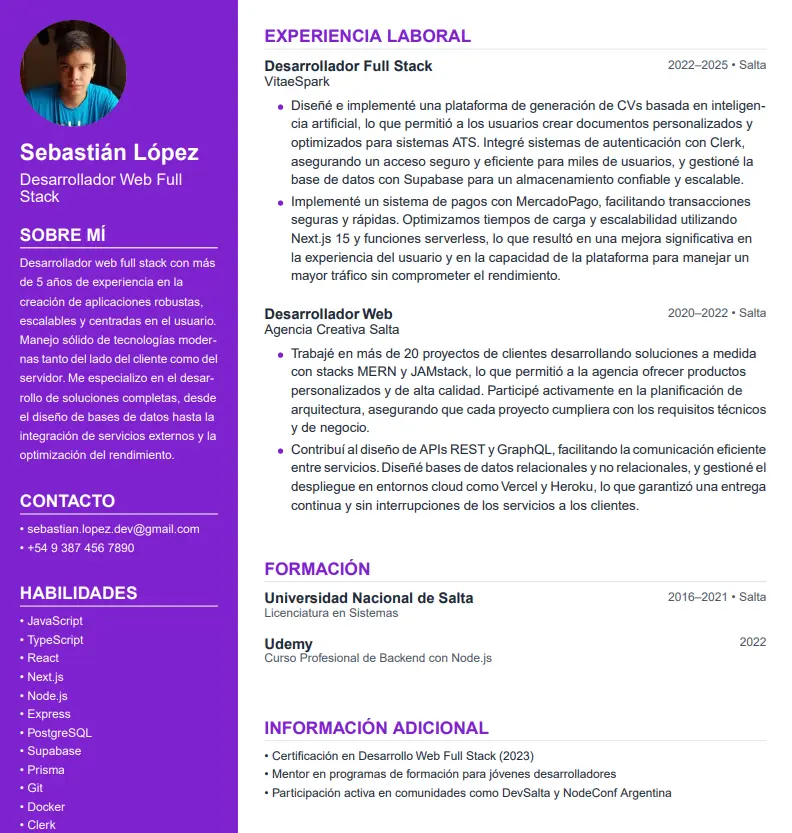
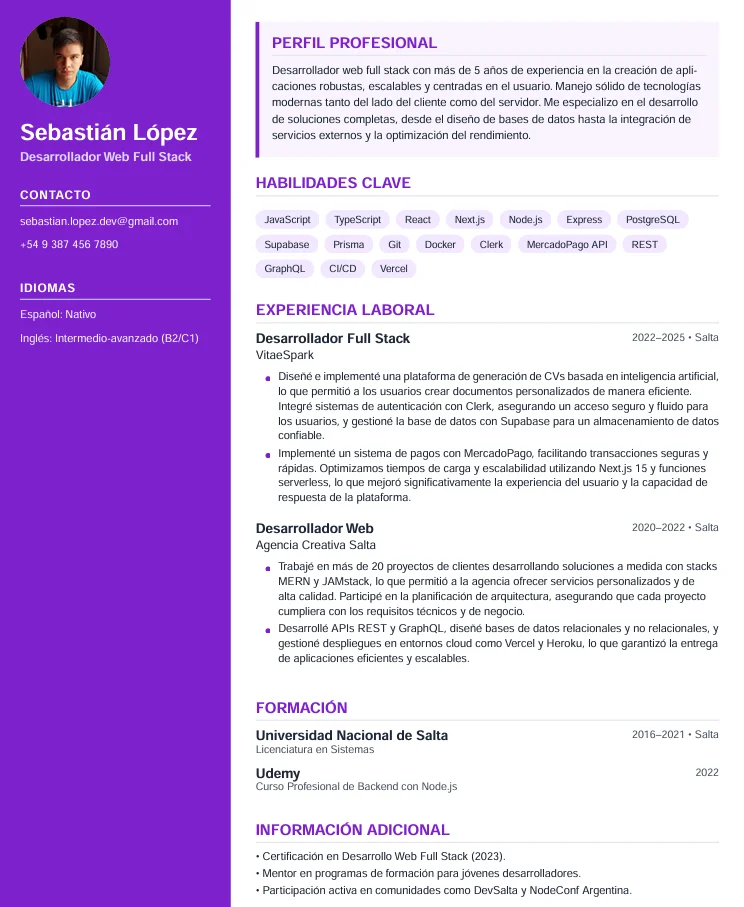
more images and images permance

diff --git a/components/TemplateSelector.tsx b/components/TemplateSelector.tsx
@@ -29,6 +29,7 @@ const templates = [
     id: "elegance",
     name: "Elegante",
     color: "#0A2C7C", // algo asi pero mas claro
+    image: "/elegance-good.webp",
     description: "Sofisticado y único",
     category: "Moderno",
     features: ["Diseño moderno", "Elegante", "Con Foto"],
@@ -39,6 +40,7 @@ const templates = [
     id: "purple",
     name: "Morado",
     color: "#8B5CF6",
+    image: "/purple-hero.webp",
     description: "Creativo y moderno",
     category: "Creativo",
     features: ["Diseño Moderno", "Colores Vibrantes", "Con Foto"],
@@ -48,6 +50,7 @@ const templates = [
     id: "blue",
     name: "Azul",
     color: "#1E40AF",
+    image: "/blue.webp",
     description: "Corporativo y confiable",
     category: "Creativo",
     features: ["Diseño Moderno", "Colores Vibrantes", "Con Foto"],
@@ -58,6 +61,7 @@ const templates = [
     id: "green",
     name: "Verde",
     color: "#15803D",
+    image: "/green.webp",
     description: "Fresco y dinámico",
     category: "Creativo",
     features: ["Diseño Moderno", "Colores Vibrantes", "Con Foto"],
@@ -68,6 +72,7 @@ const templates = [
     id: "harvard",
     name: "Harvard",
     color: "#fff",
+    image: "/harvard.webp",
     description: "Clásico y profesional",
     category: "Tradicional",
     features: ["Diseño Clásico", "Muy Legible", "Destacado"],
@@ -159,7 +164,7 @@ export default function TemplateSelector({
               <div className="relative h-44 overflow-hidden rounded-t-xl sm:h-48">
                 <div className="absolute inset-0 bg-gradient-to-t from-black/50 to-transparent z-10" />
                 <img
-                  src={`/${tpl.id}.png`}
+                  src={tpl.image}
                   alt={`Vista previa ${tpl.name}`}
                   className="w-full h-full object-cover object-top transition-transform duration-500 group-hover:scale-110"
                 />
@@ -279,7 +284,7 @@ export default function TemplateSelector({
                 <div className="relative p-2">
                   <div className="relative overflow-hidden rounded-2xl shadow-2xl bg-white">
                     <img
-                      src={`/${tpl.id}.png`}
+                      src={tpl.image}
                       alt={`Vista previa completa ${tpl.name}`}
                       className="w-full"
                     />

diff --git a/app/blog/page.tsx b/app/blog/page.tsx
@@ -128,6 +128,31 @@ export default function BlogIndexPage() {
       </section>
 
       <section className="mx-auto max-w-5xl px-4 py-16 sm:px-6 lg:px-8">
+        <div className="mb-10 grid gap-5 md:grid-cols-2">
+          <figure className="overflow-hidden rounded-3xl border border-white/10 bg-[#121217]">
+            <img
+              src="/purple-hero.webp"
+              alt="Ejemplo visual de CV moderno creado con VitaeSpark"
+              className="h-64 w-full object-cover object-top"
+              loading="lazy"
+            />
+            <figcaption className="border-t border-white/10 px-5 py-4 text-sm text-white/65">
+              Ejemplo de CV moderno optimizado para ATS.
+            </figcaption>
+          </figure>
+          <figure className="overflow-hidden rounded-3xl border border-white/10 bg-[#121217]">
+            <img
+              src="/elegance-good.webp"
+              alt="Ejemplo visual de CV elegante creado con VitaeSpark"
+              className="h-64 w-full object-cover object-top"
+              loading="lazy"
+            />
+            <figcaption className="border-t border-white/10 px-5 py-4 text-sm text-white/65">
+              Ejemplo de CV profesional con diseño elegante.
+            </figcaption>
+          </figure>
+        </div>
+
         <div className="grid gap-6">
           {posts.map((post) => (
             <Link

diff --git a/app/layout.tsx b/app/layout.tsx
@@ -73,12 +73,16 @@ export const metadata: Metadata = {
         alt: "Vitae Spark - Generador inteligente de curriculum con IA",
       },
       {
-        url: `${baseUrl.href}/harvard.webp`,
-        alt: "Vitae Spark - Plantilla Harvard para curriculum",
+        url: `${baseUrl.href}/purple-hero.webp`,
+        width: 1200,
+        height: 630,
+        alt: "Vitae Spark - Ejemplo de curriculum con plantilla moderna",
       },
       {
-        url: `${baseUrl.href}/banner-ig.webp`,
-        alt: "Vitae Spark - Creador de curriculum online",
+        url: `${baseUrl.href}/elegance-good.webp`,
+        width: 1200,
+        height: 630,
+        alt: "Vitae Spark - Ejemplo de curriculum profesional elegante",
       },
     ],
   },

diff --git a/app/cv-para-administrativo/page.tsx b/app/cv-para-administrativo/page.tsx
@@ -27,7 +27,7 @@ export default function CvParaAdministrativoPage() {
         "VitaeSpark te ayuda a convertir esas tareas en un perfil profesional mas claro, con palabras clave utiles para reclutadores y una estructura compatible con filtros ATS.",
       ]}
       exampleImage={{
-        src: "/example.webp",
+        src: "/elegance-good.webp",
         alt: "ejemplo de cv para administrativo",
         caption:
           "Ejemplo visual de CV profesional adaptable para puestos administrativos y de oficina.",

diff --git a/app/cv-para-cajero/page.tsx b/app/cv-para-cajero/page.tsx
@@ -27,7 +27,7 @@ export default function CvParaCajeroPage() {
         "VitaeSpark te ayuda a convertir esa experiencia en un CV mas claro y competitivo para supermercados, farmacias, tiendas, estaciones de servicio o comercios de cercania.",
       ]}
       exampleImage={{
-        src: "/example.webp",
+        src: "/purple-hero.webp",
         alt: "ejemplo de cv para cajero",
         caption:
           "Ejemplo visual de CV profesional adaptable para puestos de cajero, retail y atencion al cliente.",

diff --git a/app/cv-para-limpieza/page.tsx b/app/cv-para-limpieza/page.tsx
@@ -27,7 +27,7 @@ export default function CvParaLimpiezaPage() {
         "VitaeSpark te ayuda a presentar esa experiencia de forma profesional, con tareas claras, habilidades utiles y una estructura facil de leer para reclutadores.",
       ]}
       exampleImage={{
-        src: "/example.webp",
+        src: "/elegance-good.webp",
         alt: "ejemplo de cv para limpieza",
         caption:
           "Ejemplo visual de CV adaptable para limpieza, mantenimiento y servicios generales.",

diff --git a/app/cv-para-seguridad/page.tsx b/app/cv-para-seguridad/page.tsx
@@ -27,7 +27,7 @@ export default function CvParaSeguridadPage() {
         "VitaeSpark te ayuda a ordenar esa experiencia en un CV profesional, claro y enfocado en puestos de vigilador, seguridad privada, control de ingreso o prevencion.",
       ]}
       exampleImage={{
-        src: "/example.webp",
+        src: "/purple-hero.webp",
         alt: "ejemplo de cv para seguridad",
         caption:
           "Ejemplo visual de CV profesional adaptable para vigilador y seguridad privada.",

diff --git a/app/cv-para-repositor/page.tsx b/app/cv-para-repositor/page.tsx
@@ -27,7 +27,7 @@ export default function CvParaRepositorPage() {
         "VitaeSpark te ayuda a ordenar esa experiencia y convertirla en un CV claro para supermercados, mayoristas, farmacias, tiendas y comercios.",
       ]}
       exampleImage={{
-        src: "/example.webp",
+        src: "/elegance-good.webp",
         alt: "ejemplo de cv para repositor",
         caption:
           "Ejemplo visual de CV adaptable para reposicion, supermercados y operaciones de retail.",

diff --git a/app/cv-para-operario/page.tsx b/app/cv-para-operario/page.tsx
@@ -27,7 +27,7 @@ export default function CvParaOperarioPage() {
         "VitaeSpark te ayuda a ordenar esas tareas y convertirlas en un perfil mas claro para empresas industriales, depositos, comercios y servicios.",
       ]}
       exampleImage={{
-        src: "/example.webp",
+        src: "/purple-hero.webp",
         alt: "ejemplo de cv para operario",
         caption:
           "Ejemplo visual de CV adaptable para operario, produccion, deposito y mantenimiento.",
